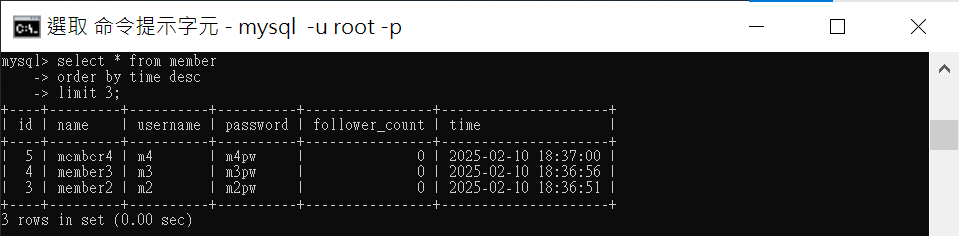
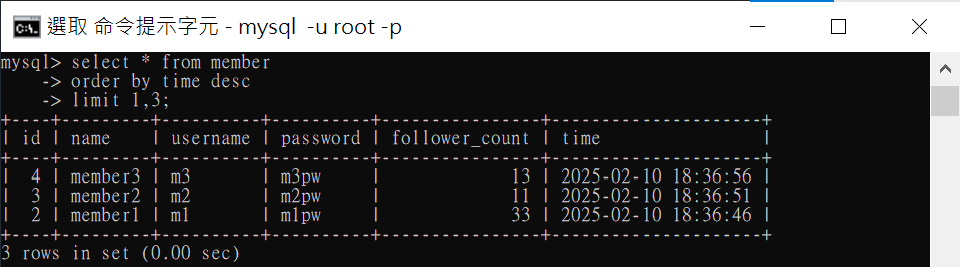
Week 5 assignment revise task3-4 limit range.

diff --git a/Wehelp_stage1/week4/app/routers/routes.py b/Wehelp_stage1/week4/app/routers/routes.py
@@ -17,7 +17,7 @@ async def index(request: Request):
     )
 
 @router.post("/signin", response_class=HTMLResponse, tags=["signin"])
-async def signin_user(request: Request,userdata:UserData=Form()):
+async def signin_user(request: Request,userdata: Annotated[UserData, Form()]):
     if userdata.username=="test" and userdata.password=="test" :
         request.session["SIGNED-IN"]=True
         redirect_url=request.url_for('signin_success') 

diff --git a/Wehelp_stage1/week5/README.md b/Wehelp_stage1/week5/README.md
@@ -48,7 +48,7 @@ order by time desc;
 ```sql
 select * from member
 order by time desc
-limit 3;
+limit 1,3;
 ```
 #### 命令列截圖
 ![task3_4](./pics/task3_4.png)
